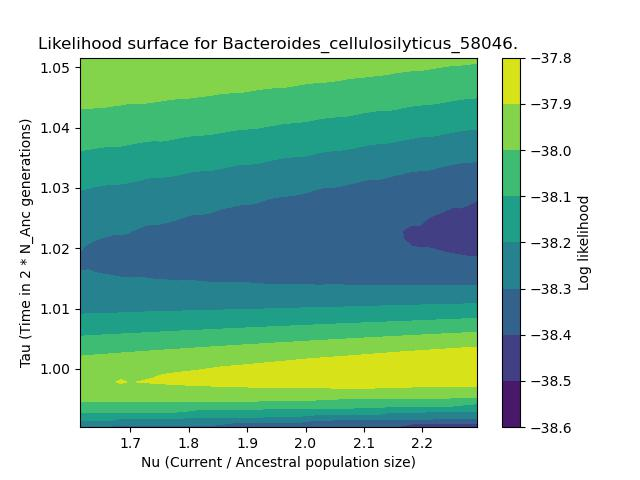
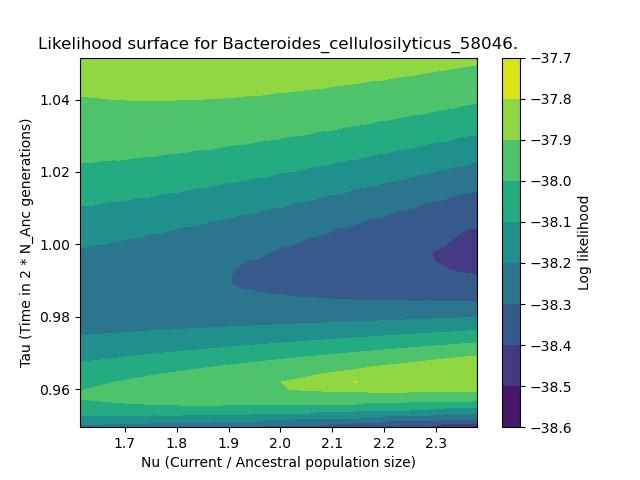
B. cell

diff --git a/Scripts/plot_likelihood.py b/Scripts/plot_likelihood.py
@@ -466,9 +466,9 @@ class PlotLikelihood():
 
                 npts = 50
 
-                x_range = numpy.linspace(x * 0.95, x * 1.35, npts)
+                x_range = numpy.linspace(x * 0.95, x * 1.4, npts)
                 # x_range = numpy.linspace(1.6, 2.4, npts)
-                y_range = numpy.linspace(y * 0.97, y * 1.03, npts)
+                y_range = numpy.linspace(y * 0.93, y * 1.03, npts)
                 # y_range = numpy.linspace(0.98, 1.04, npts)
 
                 X, Y = numpy.meshgrid(x_range, y_range)
